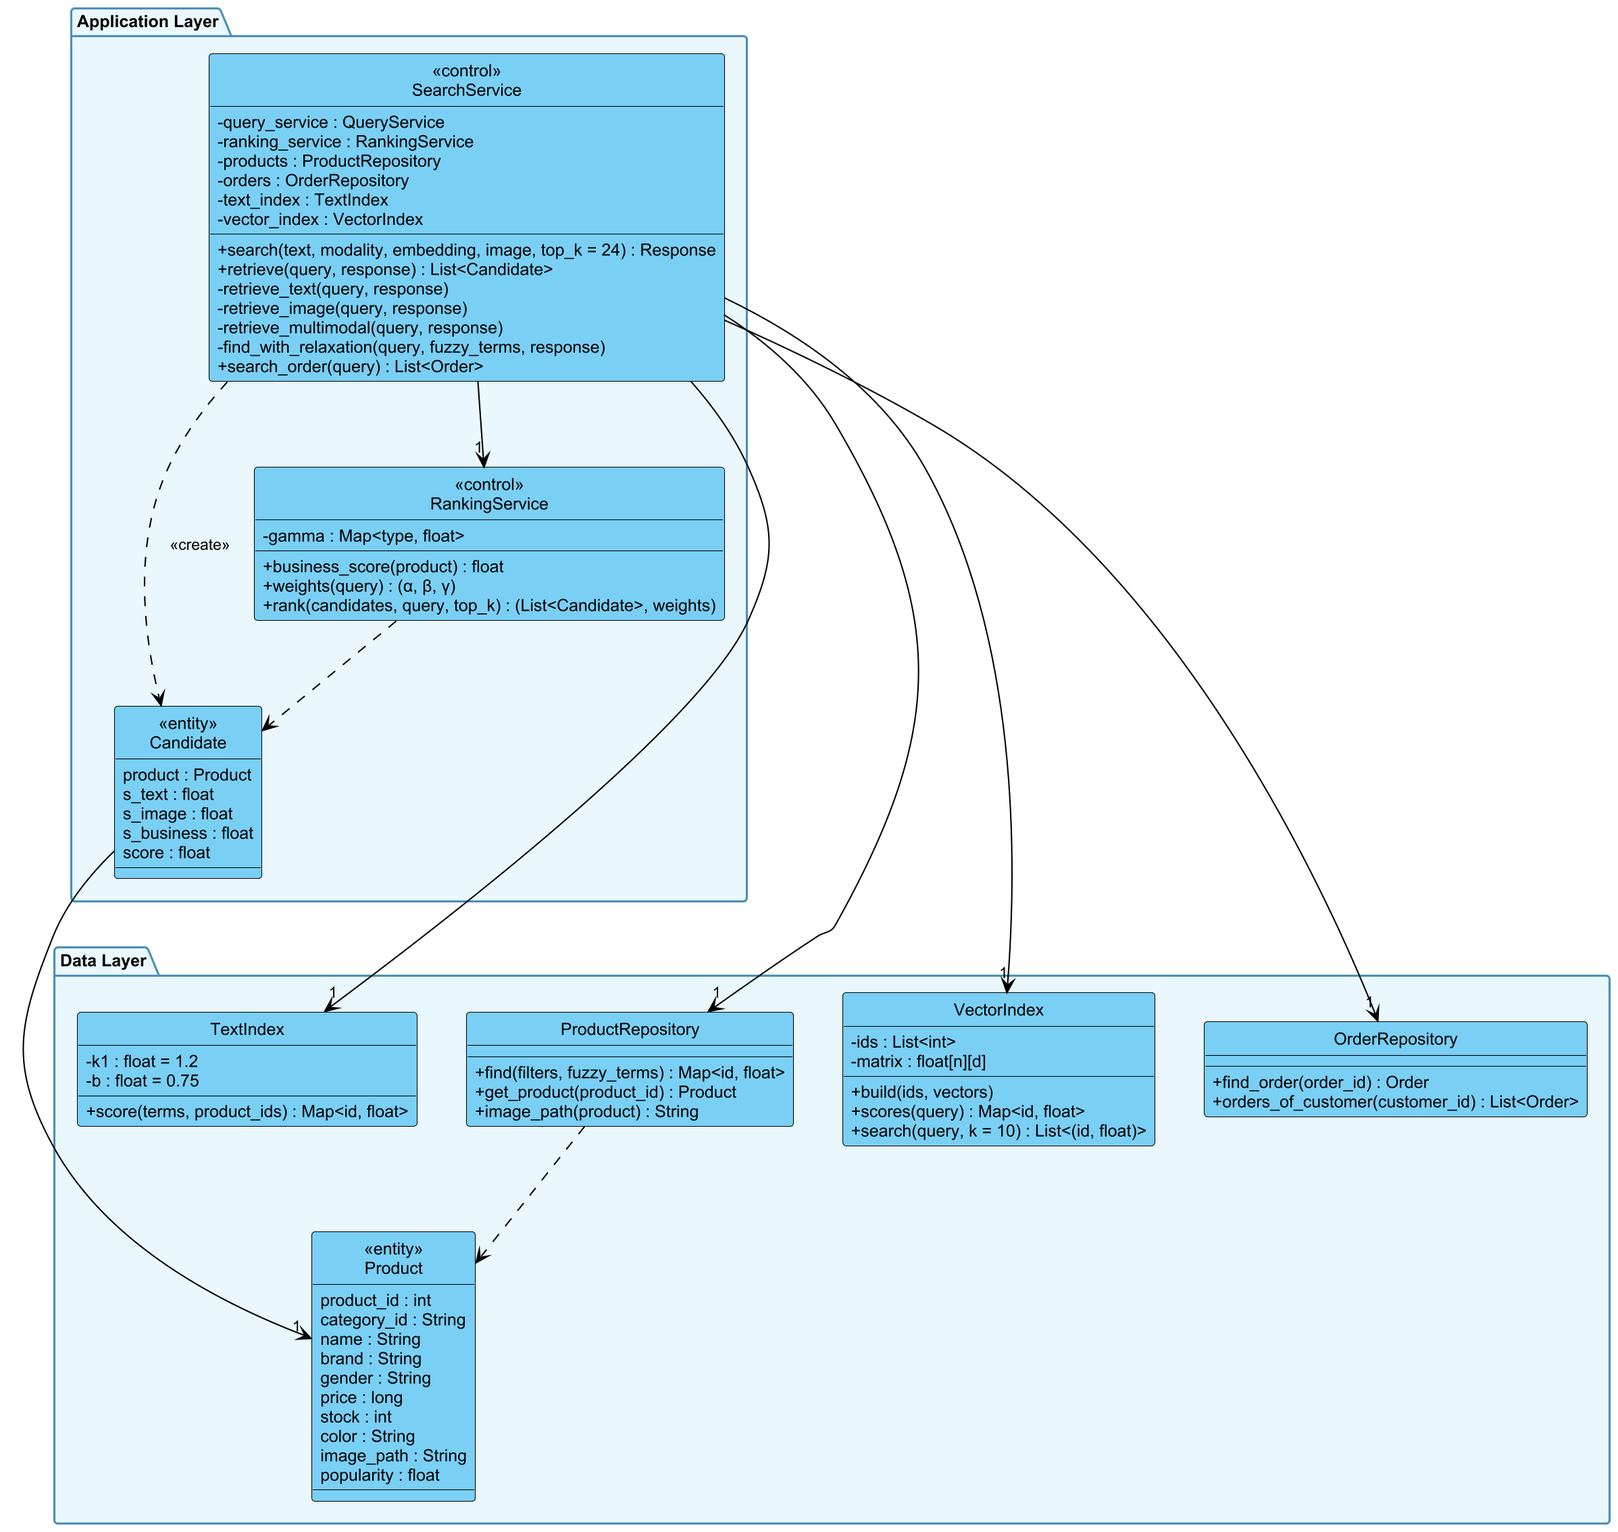
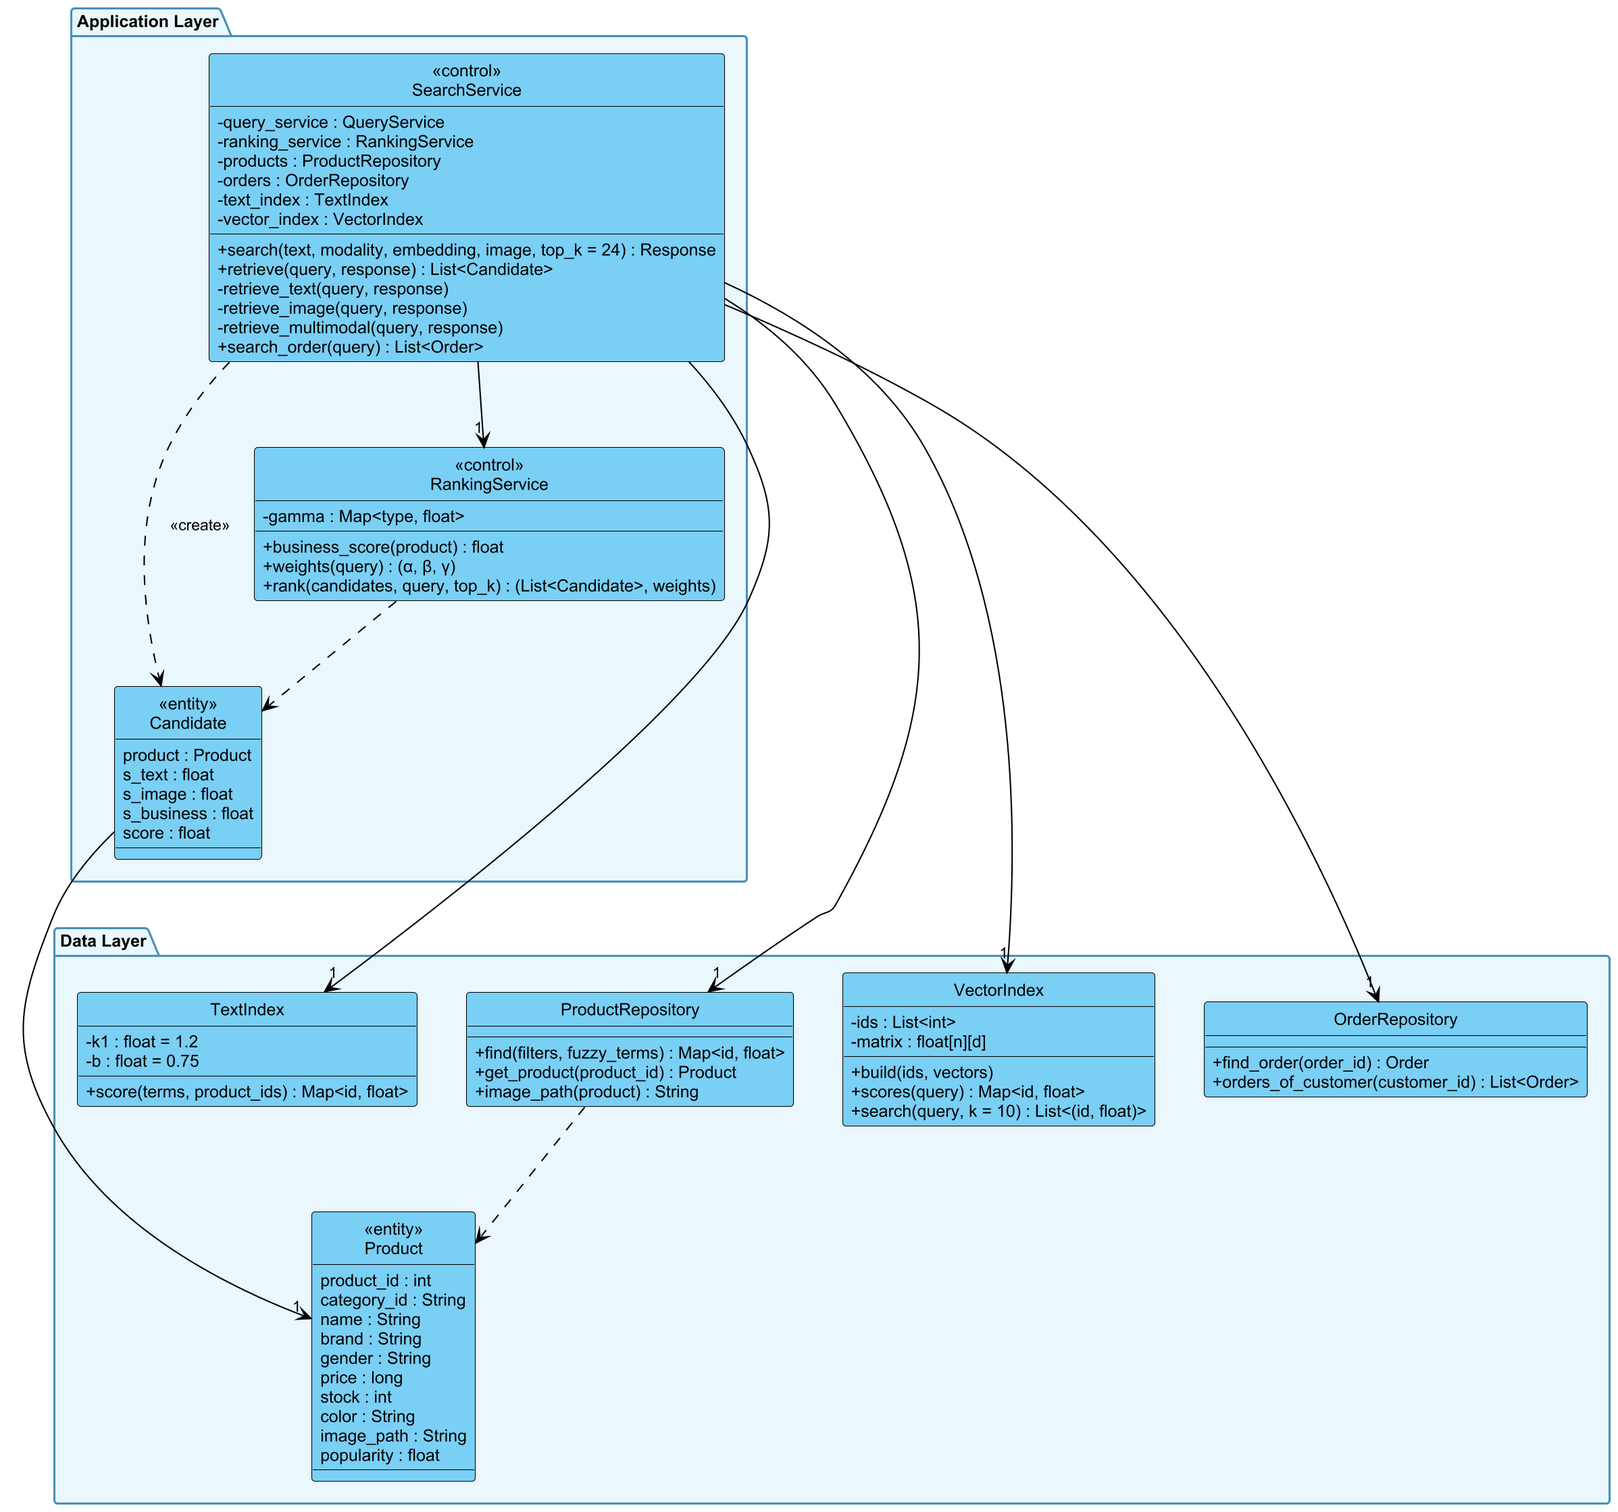
Show "not found" instead of relaxing search conditions
When no product satisfies every condition the search now returns an empty
result with "Không tìm thấy ... phù hợp với yêu cầu của bạn" and skips
ranking, as in the activity diagram, instead of silently dropping price,
colour, gender or category conditions. Slides, redrawn diagrams and the two
evaluation cases that relied on relaxation are updated (still 117/135).

diff --git a/slides/index.html b/slides/index.html
@@ -341,9 +341,9 @@ td .muted { color: var(--muted); }
     <table>
       <thead><tr><th style="width:230px">Yêu cầu</th><th>Quyết định thiết kế</th><th style="width:470px">Bằng chứng</th></tr></thead>
       <tbody>
-        <tr><td>Hiệu năng</td><td>Vector ảnh giữ trong một ma trận; tìm ảnh gần nhất chỉ là một phép nhân ma trận</td><td class="muted">Trung bình: chữ 663 ms, ảnh 330 ms trên bộ đánh giá 135 truy vấn</td></tr>
+        <tr><td>Hiệu năng</td><td>Vector ảnh giữ trong một ma trận; tìm ảnh gần nhất chỉ là một phép nhân ma trận</td><td class="muted">Trung bình: chữ 644 ms, ảnh 255 ms trên bộ đánh giá 135 truy vấn</td></tr>
         <tr><td>Dễ sử dụng</td><td>Một ô tìm kiếm chung; SearchUI tự gọi đúng service theo loại đầu vào</td><td class="muted">Chữ, giọng nói, ảnh và chữ + ảnh dùng chung một màn hình kết quả</td></tr>
-        <tr><td>Tin cậy</td><td>ImageUpload kiểm tra ảnh; không có kết quả thì tự nới điều kiện và báo cho khách</td><td class="muted">Chỉ nhận PNG, JPG, WEBP, BMP và tối đa 10 MB</td></tr>
+        <tr><td>Tin cậy</td><td>ImageUpload kiểm tra ảnh; không có kết quả thì báo rõ "Không tìm thấy sản phẩm phù hợp"</td><td class="muted">Chỉ nhận PNG, JPG, WEBP, BMP và tối đa 10 MB</td></tr>
         <tr><td>Dễ bảo trì</td><td>Mỗi tầng là một thư mục riêng, giao tiếp qua service</td><td class="muted">Giao diện web và giao diện console dùng chung các service</td></tr>
         <tr><td>Dễ mở rộng</td><td>Mô hình AI nằm sau ImageService; chỉ mục nằm sau VectorIndex</td><td class="muted">Đổi mô hình ảnh chỉ sửa ImageService; VectorIndex có thể thay bằng pgvector hoặc FAISS</td></tr>
       </tbody>
@@ -441,6 +441,7 @@ td .muted { color: var(--muted); }
         <tr><td>Extract image features</td><td><code>ImageService.encode()</code></td><td class="muted">Application</td></tr>
         <tr><td>Analyze keywords</td><td><code>QueryService</code> → <code>RuleParser.parse()</code></td><td class="muted">Application</td></tr>
         <tr><td>Find matching products · Rank by relevance</td><td><code>SearchService.retrieve()</code> → <code>RankingService.rank()</code></td><td class="muted">Application</td></tr>
+        <tr><td>Show "No products found"</td><td><code>SearchResultView.show_response()</code></td><td class="muted">Presentation</td></tr>
       </tbody>
     </table>
   </div>
@@ -556,7 +557,7 @@ td .muted { color: var(--muted); }
       <div class="arrow">→</div>
       <div class="card">
         <div class="num">BƯỚC 2</div><h3>retrieve(query) → ứng viên</h3>
-        <div class="branch"><b>Chữ / giọng nói</b><p>Lọc trong PostgreSQL theo điều kiện; rỗng thì nới bớt điều kiện; chấm S_text bằng BM25 và khớp gần đúng.</p></div>
+        <div class="branch"><b>Chữ / giọng nói</b><p>Lọc trong PostgreSQL theo đúng mọi điều kiện; chấm S_text bằng BM25 và khớp gần đúng.</p></div>
         <div class="branch"><b>Ảnh</b><p>Chấm S_image bằng cosine trên VectorIndex.</p></div>
         <div class="branch"><b>Chữ + ảnh</b><p>Chữ lọc ứng viên, ảnh chấm độ giống.</p></div>
       </div>
@@ -564,7 +565,8 @@ td .muted { color: var(--muted); }
       <div class="card">
         <div class="num">BƯỚC 3</div><h3>rank(…, top_k)</h3>
         <p>RankingService tính điểm cuối và cắt Top-K.</p>
-        <p style="margin-top:16px"><b style="color:var(--ink)">Response:</b> kết quả, trọng số, các điều kiện đã nới, thời gian xử lý.</p>
+        <p style="margin-top:16px"><b style="color:var(--ink)">Response:</b> kết quả, trọng số, thời gian xử lý.</p>
+        <p style="margin-top:16px"><b style="color:var(--ink)">Không có ứng viên:</b> không xếp hạng, trả về thông báo "Không tìm thấy sản phẩm phù hợp".</p>
       </div>
     </div>
   </div>
@@ -612,7 +614,7 @@ td .muted { color: var(--muted); }
         <li>SearchService → QueryService: <code>text_query(text)</code></li>
         <li>QueryService → RuleParser: <code>parse(text)</code>, trả về Query</li>
         <li>SearchService → ProductRepository: <code>find(điều kiện)</code></li>
-        <li class="alt">Không có kết quả: nới điều kiện, tìm lại và báo cho khách</li>
+        <li class="alt">Không có kết quả: báo "Không tìm thấy sản phẩm phù hợp", dừng</li>
         <li>SearchService → TextIndex: <code>score(từ khóa)</code></li>
         <li>SearchService → RankingService: <code>rank(…, top_k)</code></li>
         <li>SearchUI hiển thị kết quả</li>

diff --git a/presentation/static/app.js b/presentation/static/app.js
@@ -329,7 +329,6 @@
   function renderNotices(data) {
     const q = data.query || {};
     const out = [];
-    (data.relaxed || []).forEach((r) => out.push(`<div class="notice">${ICON.alert}<div>${esc(r.message)}</div></div>`));
     if (data.message) out.push(`<div class="notice">${ICON.info}<div>${esc(data.message)}</div></div>`);
     if (q.explanation) out.push(`<div class="notice notice--info">${ICON.sparkle}<div><b>AI hiểu là:</b> ${esc(q.explanation)}</div></div>`);
     if (q.llm_error) out.push(`<div class="notice notice--info">${ICON.info}<div>${esc(q.llm_error)}</div></div>`);
@@ -381,7 +380,7 @@
     const items = sortedItems();
     const grid = $("#grid");
     if (!items.length) {
-      grid.innerHTML = `<div class="empty"><h3>Chưa tìm thấy sản phẩm</h3><p>Bạn thử bỏ bớt điều kiện hoặc mô tả khác đi nhé.</p></div>`;
+      grid.innerHTML = `<div class="empty"><h3>Không tìm thấy sản phẩm phù hợp</h3><p>Bạn thử bỏ bớt điều kiện hoặc mô tả khác đi nhé.</p></div>`;
       $("#moreBtn").hidden = true;
       return;
     }

diff --git a/application/search_service.py b/application/search_service.py
@@ -11,8 +11,8 @@ The single entry point of the search use case for the Presentation layer:
              - semantic score: multilingual CLIP text vs product photos (semantic index)
              - photo: FashionSigLIP similarity (photo index) + category vote of the
                nearest neighbours
-             - if nothing matches, conditions are relaxed one by one and the
-               customer is told which one was dropped
+             - conditions are never dropped: if nothing satisfies all of them the
+               result is empty and the customer is told so
         3. RankingService    orders the candidates
 
 Retrieval is done here, ranking is delegated, so the two stay separate.
@@ -25,12 +25,6 @@ from shared.vietnamese import search_terms, strip_accents
 
 FILTER_KEYS = ("categories", "genders", "colors", "materials", "patterns",
                "min_price", "max_price", "in_stock")
-# order in which conditions are dropped when nothing matches
-RELAX_ORDER = ("in_stock", "patterns", "materials", "colors", "genders", "price", "categories")
-
-
-def fmt_vnd(v):
-    return f"{int(v):,}".replace(",", ".") + "₫"
 
 
 class SearchService:
@@ -78,7 +72,7 @@ class SearchService:
             detail += f", AI {query['llm_ms']} ms"
         self._step(trace, "QueryService", "Application", detail, t0)
 
-        response = {"query": self._public_query(query), "trace": trace, "relaxed": []}
+        response = {"query": self._public_query(query), "trace": trace}
         if query["intent"] == "order":
             t = time.perf_counter()
             response["orders"] = self.search_order(query)
@@ -97,6 +91,11 @@ class SearchService:
         candidates = self.retrieve(query, response)
         self._step(trace, "SearchService", "Application",
                    f"{len(candidates)} ứng viên C(q)", t)
+        if not candidates:
+            response["message"] = (f"Không tìm thấy {self._cat_label(query)} phù hợp "
+                                   f"với yêu cầu của bạn.")
+            response.update(results=[], candidates=0)
+            return self._done(response, t0)
 
         # 3. ranking
         t = time.perf_counter()
@@ -142,49 +141,6 @@ class SearchService:
     def _cat_label(self, q):
         names = [self.category_names.get(c, c) for c in q.get("categories") or []]
         return " / ".join(names[:3]) if names else "sản phẩm"
-
-    def find_with_relaxation(self, q, fuzzy_terms, response):
-        """Products that satisfy the query filters; if there are none, drop the
-        least important condition, tell the customer, and try again."""
-        f = self._filters(q)
-        found = self._find(f, fuzzy_terms)
-        what = self._cat_label(q)
-        for key in RELAX_ORDER:
-            if found:
-                break
-            if key == "price":
-                lo, hi = f["min_price"], f["max_price"]
-                if lo is None and hi is None:
-                    continue
-                if lo is not None and hi is None:
-                    msg = f"Không có {what} trên {fmt_vnd(lo)}. Đây là các mẫu giá cao nhất."
-                    q["sort"] = "price_desc"
-                elif hi is not None and lo is None:
-                    msg = f"Không có {what} dưới {fmt_vnd(hi)}. Đây là các mẫu giá thấp nhất."
-                    q["sort"] = "price_asc"
-                else:
-                    msg = (f"Không có {what} trong khoảng {fmt_vnd(lo)} – {fmt_vnd(hi)}. "
-                           f"Đây là các mẫu có giá gần nhất.")
-                    q["sort"] = "price_asc" if self._find(dict(f, min_price=hi, max_price=None)) \
-                        else "price_desc"
-                f["min_price"] = f["max_price"] = None
-            elif f.get(key):
-                value = f[key]
-                f[key] = False if key == "in_stock" else []
-                msg = {
-                    "in_stock": "Không còn hàng sẵn phù hợp, đã hiển thị cả sản phẩm tạm hết.",
-                    "patterns": f"Không có {what} họa tiết {', '.join(value)}, đã bỏ điều kiện họa tiết.",
-                    "materials": f"Không có {what} chất {', '.join(value)}, đã bỏ điều kiện chất liệu.",
-                    "colors": f"Không có {what} màu {', '.join(value)} phù hợp, đã bỏ điều kiện màu.",
-                    "genders": f"Không có {what} cho {'nam' if 'nam' in value else 'nữ'} phù hợp, "
-                               f"đã hiển thị cả nam và nữ.",
-                    "categories": f"Không tìm thấy {what} phù hợp, đã mở rộng sang loại khác.",
-                }[key]
-            else:
-                continue
-            response["relaxed"].append({"condition": key, "message": msg})
-            found = self._find(f, fuzzy_terms)
-        return found
 
     # ------------------------------------------------------------ semantic
     def _semantic_scores(self, q):
@@ -252,7 +208,7 @@ class SearchService:
             return [{"product": p, "s_text": 0.0, "s_image": 0.0}
                     for p in self.browse(size=24)["products"]]
         fuzzy = [strip_accents(k) for k in q["keywords"] if " " not in k][:6]
-        found = self.find_with_relaxation(q, fuzzy, response)
+        found = self._find(self._filters(q), fuzzy)
         scores = self._text_scores(q, found)
         return [{"product": self.products.get_product(pid), "s_text": s, "s_image": 0.0}
                 for pid, s in scores.items()]
@@ -303,8 +259,7 @@ class SearchService:
         """Photo + text: the text filters ("màu đen", "dưới 500k") restrict the
         candidates, the photo decides which ones look alike. "Giống cái này nhưng
         màu đen" means the same KIND of garment, so when the text names no
-        category, the category recognised in the photo becomes a filter too (and
-        is relaxed like any other condition if nothing matches)."""
+        category, the category recognised in the photo becomes a filter too."""
         _, prediction = self._image_scores(q["embedding"])
         response["image_category"] = prediction
         if not q["categories"]:
@@ -319,7 +274,7 @@ class SearchService:
                 q["understood"].append({"kind": "category", "label": f"{name} (từ ảnh)",
                                         "value": cat, "source": "image"})
         fuzzy = [strip_accents(k) for k in q["keywords"] if " " not in k][:6]
-        found = self.find_with_relaxation(q, fuzzy, response)
+        found = self._find(self._filters(q), fuzzy)
         text_scores = self._text_scores(q, found, prune=False)
         image_scores, _ = self._image_scores(q["embedding"], allowed=found)
         lt, li = q["weights"]["text"], q["weights"]["image"]

diff --git a/evaluation.py b/evaluation.py
@@ -3,9 +3,9 @@ Experimental evaluation of SnapShop search.
 
 A text / voice query is successful when the Top-1 product satisfies every
 condition the customer gave (category, price, colour, gender, material ...),
-or when the system does the right thing for a special case (relaxing an
-impossible price, refusing a product the shop does not sell, finding the
-right order). P@5 = share of the Top-5 products that satisfy the conditions.
+or when the system does the right thing for a special case (an empty result
+with a "not found" message for an impossible request, refusing a product the
+shop does not sell, finding the right order). P@5 = share of the Top-5 products that satisfy the conditions.
 
 Photo queries (data/query_images/queries.json):
   * augmented : an edited photo of a catalogue product -> the same product must be Top-1
@@ -30,7 +30,7 @@ Q = os.path.join(ROOT, "data", "query_images")
 TEST_SET = [
     # ---- text ----
     ("Text", "áo phông dưới 100k", {"cat": ["ao_phong"], "max": 100_000}),
-    ("Text", "áo phông trên 2 triệu", {"cat": ["ao_phong"], "relaxed": "price", "top": "price_desc"}),
+    ("Text", "áo phông trên 2 triệu", {"empty": True}),
     ("Text", "ao thun duoi 150k", {"cat": ["ao_phong"], "max": 150_000}),
     ("Text", "quần jeans nam tầm 600-900 nghìn", {"cat": ["quan_jeans"], "gender": "nam",
                                                 "min": 600_000, "max": 900_000}),
@@ -42,7 +42,7 @@ TEST_SET = [
                                          "quan_au"], "gender": "nu"}),
     ("Text", "quần âu nam", {"cat": ["quan_au"], "gender": "nam"}),
     ("Text", "áo hai dây màu hồng", {"cat": ["ao_hai_day"], "color": ["hồng"]}),
-    ("Text", "áo hai dây màu đỏ", {"cat": ["ao_hai_day"], "relaxed": "colors"}),
+    ("Text", "áo hai dây màu đỏ", {"empty": True}),
     ("Text", "áo kẻ sọc", {"cat": ["ao"], "pattern": ["kẻ sọc"]}),
     ("Text", "quần bò xanh", {"cat": ["quan_jeans"],
                               "color": ["xanh dương", "xanh lá", "xanh rêu", "xanh ngọc"]}),
@@ -101,8 +101,6 @@ def check_products(out, cond, all_products):
     top5 = results[:5]
     p5 = sum(satisfies(p, cond) for p in top5) / len(top5)
     ok = satisfies(results[0], cond)
-    if cond.get("relaxed"):
-        ok = ok and any(r["condition"] == cond["relaxed"] for r in out.get("relaxed", []))
     if cond.get("top"):
         pool = [p for p in all_products if satisfies(p, cond)]
         if pool:
@@ -139,6 +137,9 @@ def evaluate(ui):
         if "intent" in cond:
             ok = out["query"]["intent"] == cond["intent"]
             record(value, mode, out.get("message", "-")[:60], None, ok, ms)
+        elif cond.get("empty"):
+            ok = not out.get("results") and bool(out.get("message"))
+            record(value, mode, out.get("message") or "-", None, ok, ms)
         elif "order" in cond or "orders" in cond:
             orders = out.get("orders") or []
             ok = (orders and orders[0]["order_id"] == cond["order"]) if "order" in cond \

diff --git a/presentation/web_ui.py b/presentation/web_ui.py
@@ -74,7 +74,6 @@ class SearchResponse(BaseModel):
     orders: Optional[List[dict]] = None
     weights: Optional[dict] = None
     candidates: Optional[int] = None
-    relaxed: List[dict] = []
     message: Optional[str] = None
     image_category: Optional[dict] = None
     total_ms: float
@@ -187,7 +186,7 @@ class WebSearchUI:
             product_id=product_id, top_k=48)
         response["trace"] = trace + response["trace"]
         out = {"mode": mode, "input": shown_input, "query": self._clean(response["query"]),
-               "trace": response["trace"], "relaxed": response["relaxed"],
+               "trace": response["trace"],
                "message": response.get("message"),
                "image_category": response.get("image_category"),
                "total_ms": round(response["total_ms"] + sum(

diff --git a/presentation/search_ui.py b/presentation/search_ui.py
@@ -68,8 +68,6 @@ class SearchResultView:
         for step in response["trace"]:
             print(f" PROCESSING : {step['component']:<16} [{step['layer']:<12}] "
                   f"{step['detail']}  ({step['ms']} ms)")
-        for r in response.get("relaxed", []):
-            print(f" NỚI ĐK     : {r['message']}")
         if response.get("message"):
             print(f" THÔNG BÁO  : {response['message']}")
         if response.get("image_category"):

diff --git a/README.md b/README.md
@@ -41,7 +41,8 @@ application/    QueryService      mọi đầu vào -> một biểu diễn truy 
                 SpeechService     Soniox (realtime, key tạm cho trình duyệt) hoặc Gemini (dự phòng)
                 SonioxClient      tạo key tạm, cấu hình stream, nhận dạng file ghi âm
                 ImageService      CLIP: ảnh -> vector, câu tiếng Việt -> vector (cùng không gian)
-                SearchService     điều phối: lọc SQL, BM25, fuzzy, ngữ nghĩa, ảnh, nới điều kiện
+                SearchService     điều phối: lọc SQL, BM25, fuzzy, ngữ nghĩa, ảnh; không có kết
+                                  quả thì báo "Không tìm thấy", không tự bỏ điều kiện
                 RankingService    S = α·S_text + β·S_image + γ·S_business
 data/           ProductRepository, OrderRepository (PostgreSQL), TextIndex (BM25),
                 VectorIndex (NumPy), schema.sql, catalog/ (ảnh + seed), query_images/
